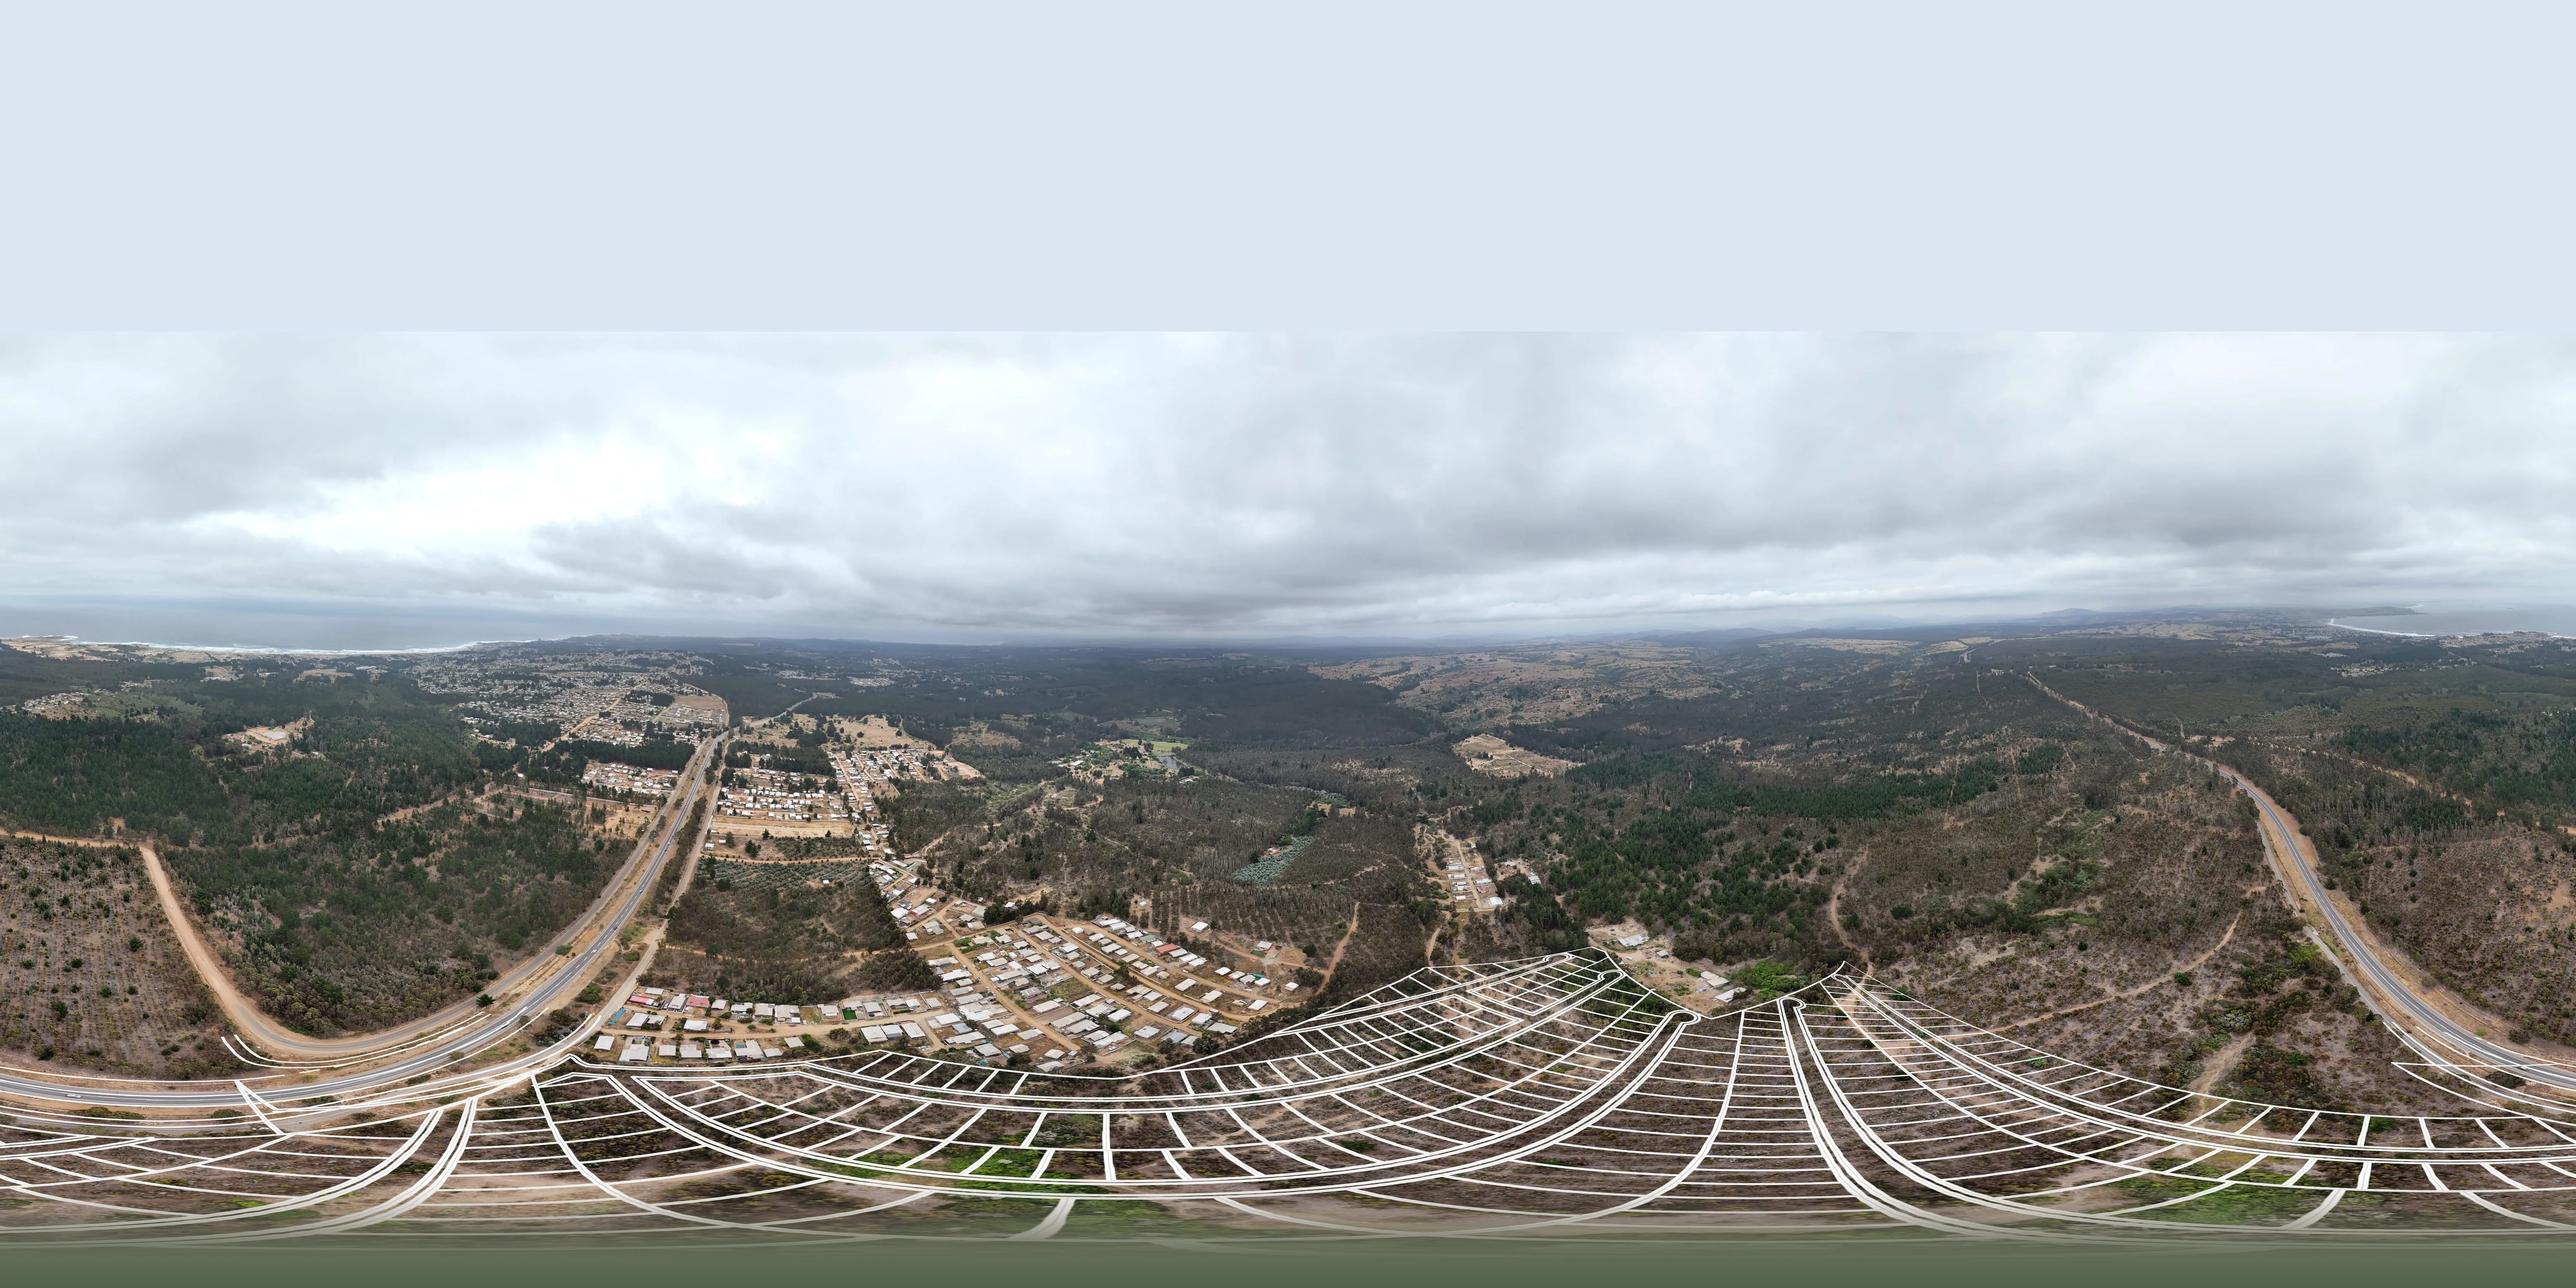
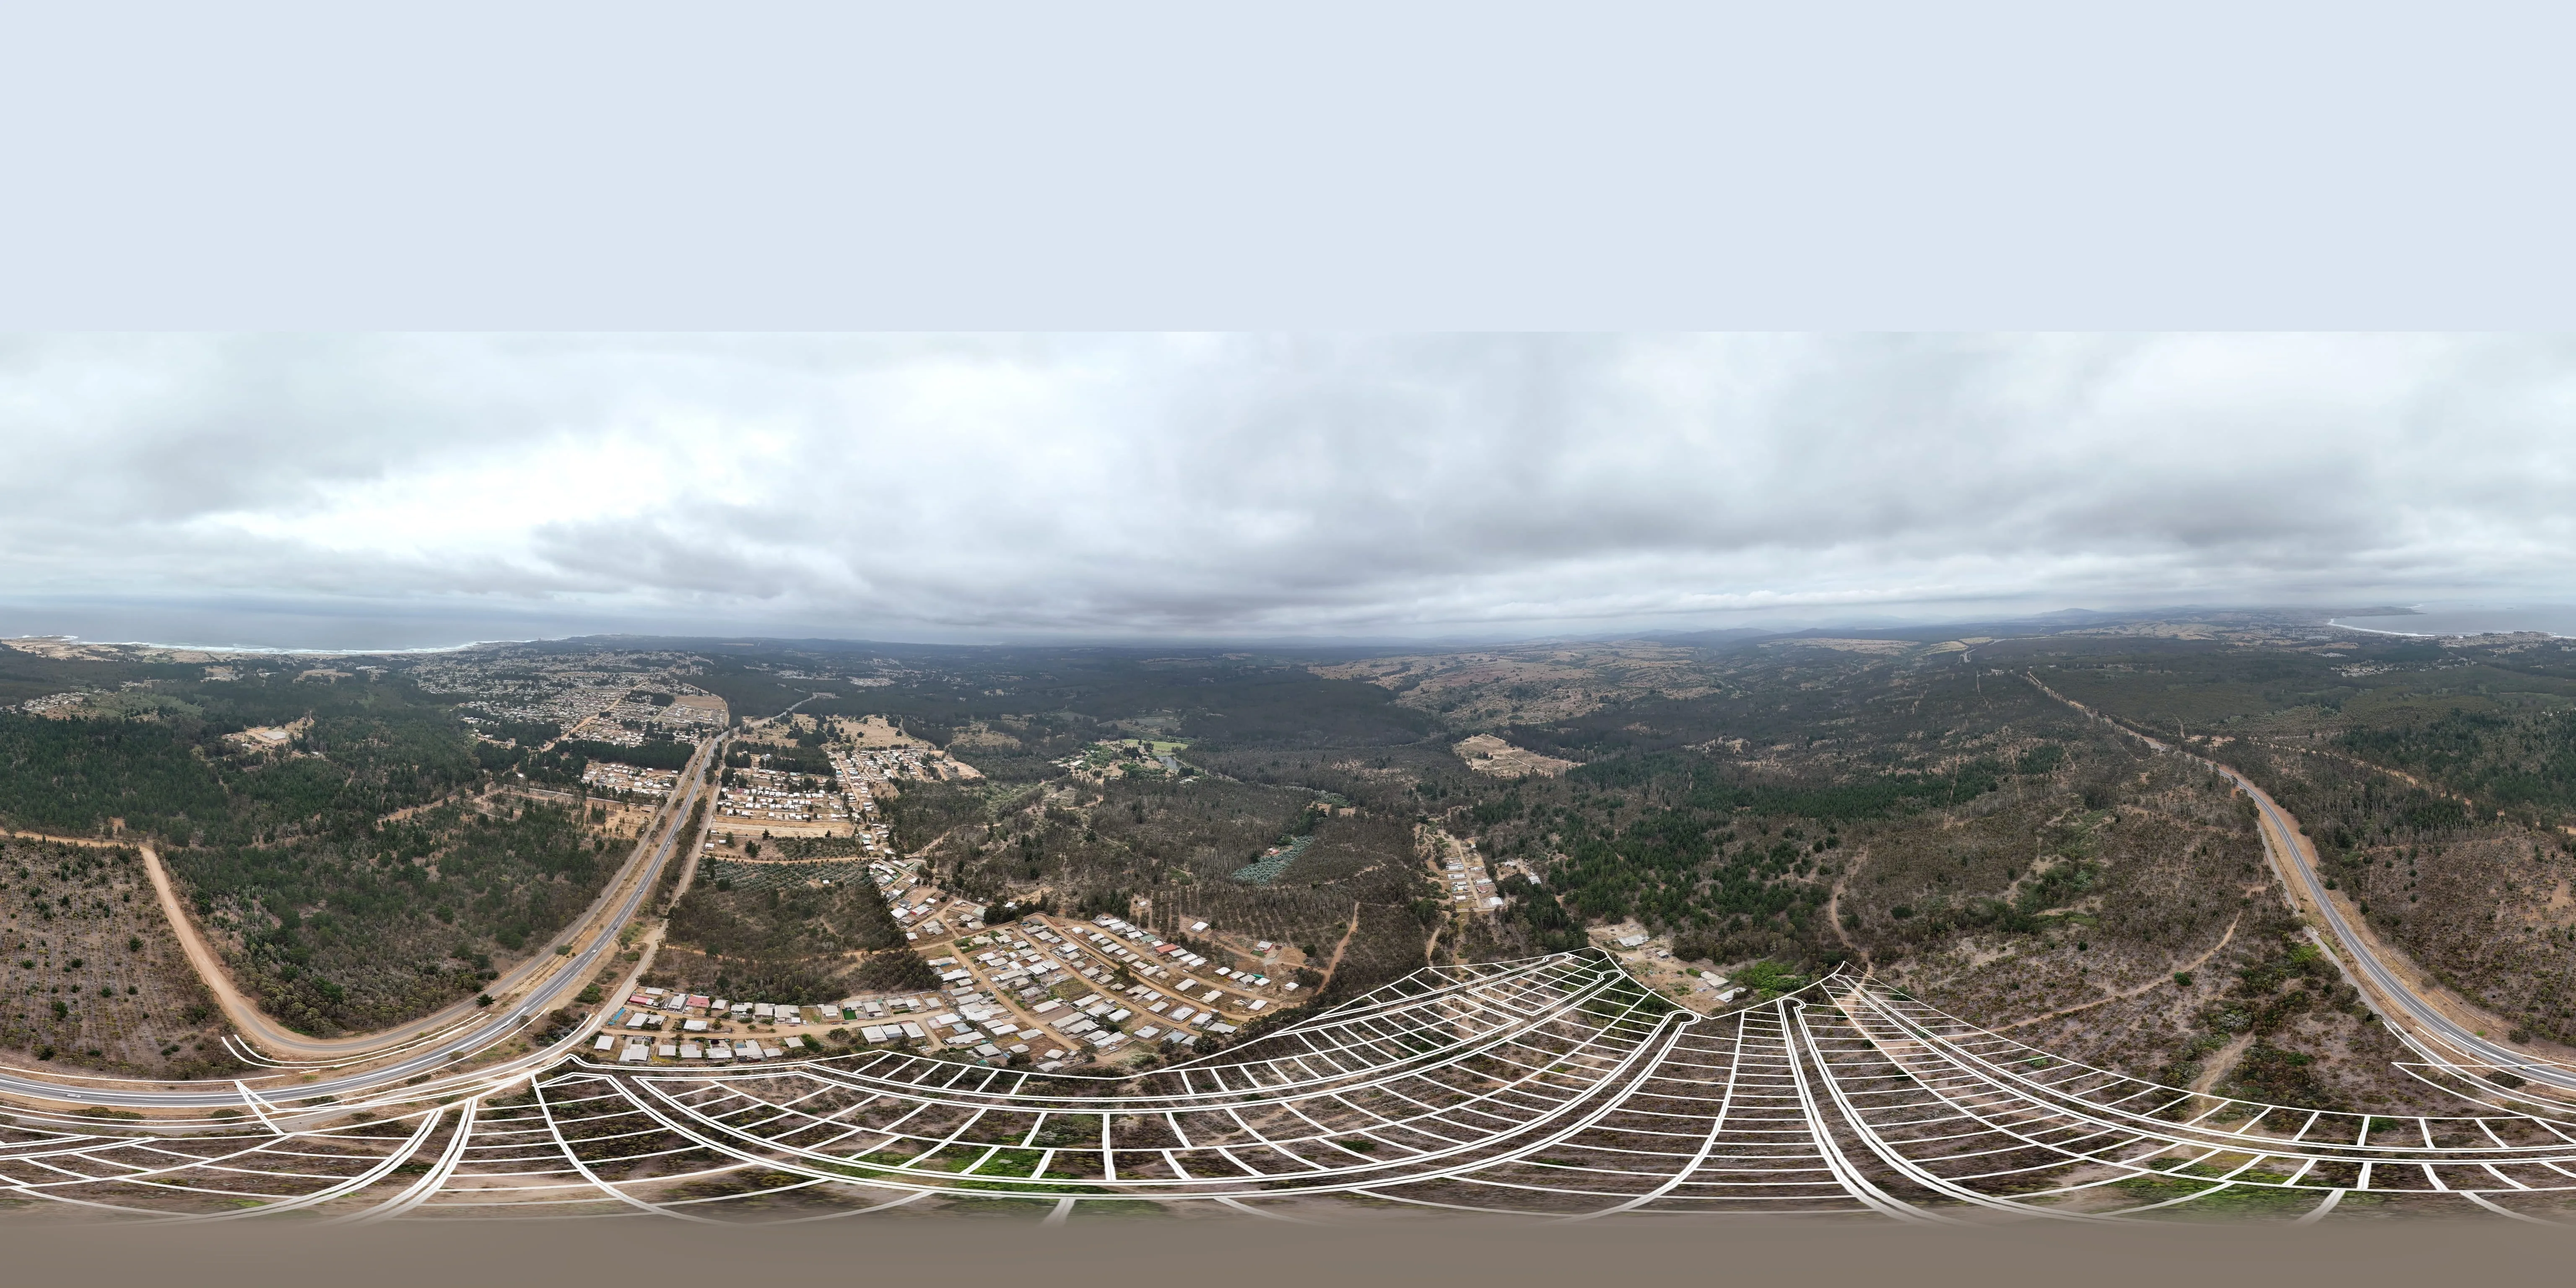
feat(mapa-3d): el plano se ve solo, sin los rectangulos de lotes encima
Los rellenos verdes y rojos, los deslindes propios y los numeros salen del
plano: la foto del dron ya trae los deslindes dibujados y el calco encima la
ensuciaba. Las mallas se quedan puestas —siguen siendo lo que se toca— pero
transparentes, y solo se pinta el lote que se apunta y el que se elige. En el
editor se ven todas: sin relleno no hay nada que arrastrar.

Se cae la leyenda de colores del aviso, que explicaba colores que ya no estan.

Del nadir: el ancho de la franja de relleno ahora sale de medir la foto. El
detalle horizontal por fila se mantiene entero hasta unos 15 grados sobre el
nadir, baja al 71 % a los 12 y se derrumba al 47 % bajo los 9, asi que la
franja arranca a los 15 y el relleno manda del todo a los 8. Antes estaba en
25 grados a ojo, o sea 10 grados de mapa tapado de mas.

Ademas _paint se llama al arrancar: sin eso el relleno se quedaba con la
opacidad que le pone _lots y los lotes seguian pintados igual.

Changed region(s): [[0.0, 0.9375, 1.0, 1.0]]

diff --git a/scripts/importar-plano-panoramica.js b/scripts/importar-plano-panoramica.js
@@ -118,63 +118,83 @@ async function main() {
        En una equirectangular todas las direcciones convergen en la fila de
        abajo, asi que al proyectarla cualquier dibujo con estructura se abre en
        rayos desde el punto bajo el dron. Probado: color liso deja una mancha,
-       espejar deja una roseta, estirar deja estrias y repetir un trozo de
-       vegetacion deja una estrella de 256 rayos. El problema no es el dibujo,
-       es la convergencia.
+       espejar una roseta, estirar estrias, repetir vegetacion una estrella de
+       256 rayos, y el promedio de cada fila un velo gris que igual se ve,
+       porque el promedio de toda la vuelta no es el color del suelo de ningun
+       lado en particular: sale verdoso donde el terreno es pardo.
 
-       Lo unico que no se deforma al converger es lo que ya es constante a lo
-       largo de la fila. Asi que la franja de abajo se reemplaza por el promedio
-       de cada fila, entrando de a poco: arriba de la franja manda la foto real
-       y hacia el nadir manda el promedio. Queda un degradado del color del
-       suelo, sin figura. Los deslindes de los lotes siguen viendose porque son
-       geometria 3D, no parte de la foto. */
-    const franja = Math.max(abajo + 24, Math.round(ALTO * 0.09))
+       Asi que el relleno se saca del color que tiene el suelo en cada rumbo:
+       se toma una banda de filas reales sobre la zona fea, se desenfoca a lo
+       ancho hasta que no queda ningun detalle —solo el color— y se usa como
+       relleno. Cada sector queda del tono que le toca y el parche se confunde
+       con lo de al lado. Justo en el nadir, donde todos los rumbos se juntan
+       en un punto, se cierra al promedio para que no salga un molinillo. */
+    /* El ancho sale de medir la foto, no de mirarla: el detalle horizontal por
+       fila se mantiene entero hasta unos 15 grados sobre el nadir, baja al 71 %
+       a los 12 y se derrumba al 47 % bajo los 9. Asi que la franja arranca a
+       los 15 grados y el relleno manda del todo a los 8: entre medio la foto
+       esta blanda pero es real, y se prefiere blanda a inventada.
+
+       Cada grado de mas es mapa tapado, y no poco: a los 260 m de vuelo que
+       tiene el calce, 15 grados ya son 70 m de radio. */
+    const franja = Math.max(abajo + 24, Math.round(ALTO * 0.0833))
     const cruda = await sharp(plana).raw().toBuffer({ resolveWithObject: true })
     const px = cruda.data, W = cruda.info.width, C = cruda.info.channels
     const arranque = ALTO - franja
-    const ultimaReal = arriba + mc.height - 1
 
-    /* Promedio de cada fila de la franja. Las filas del relleno no tienen foto,
-       asi que repiten la ultima que si la tiene. */
-    const medias = []
-    for (let y = arranque; y < ALTO; y++) {
-        const f = Math.min(y, ultimaReal)
+    /* Banda de referencia: filas reales por encima de la franja, lejos del
+       relleno y de las filas degradadas del final del stitch. */
+    const refA = arranque - Math.round(franja * 0.9)
+    const refB = arranque - Math.round(franja * 0.25)
+    const fila = new Float64Array(W * 3)
+    for (let x = 0; x < W; x++) {
         let r = 0, g = 0, b = 0
-        for (let x = 0; x < W; x++) {
-            const i = (f * W + x) * C
+        for (let y = refA; y < refB; y++) {
+            const i = (y * W + x) * C
             r += px[i]; g += px[i + 1]; b += px[i + 2]
         }
-        medias.push([r / W, g / W, b / W])
+        const n = refB - refA
+        fila[x * 3] = r / n; fila[x * 3 + 1] = g / n; fila[x * 3 + 2] = b / n
     }
 
-    /* Los promedios crudos saltan de fila en fila, y como cada fila es un
-       anillo alrededor del dron, esos saltos salen dibujados como una diana.
-       Se suavizan con una media movil ancha: el disco queda como un degradado
-       continuo del color del suelo, sin bordes que mirar. */
-    const RADIO = Math.round(franja * 0.35)
-    const suavizadas = medias.map((_, k) => {
-        let r = 0, g = 0, b = 0, n = 0
-        for (let j = k - RADIO; j <= k + RADIO; j++) {
-            const m = medias[Math.min(medias.length - 1, Math.max(0, j))]
-            r += m[0]; g += m[1]; b += m[2]; n++
+    /* Tres pasadas de media movil circular ≈ una gaussiana, y cada pasada es
+       O(W) con suma corrida. El radio es medio sector: borra el detalle y deja
+       el color. */
+    const radio = Math.round(W / 12)
+    let color = fila
+    for (let pasada = 0; pasada < 3; pasada++) {
+        const salida = new Float64Array(W * 3)
+        for (let c = 0; c < 3; c++) {
+            let suma = 0
+            for (let j = -radio; j <= radio; j++) suma += color[((((j % W) + W) % W) * 3) + c]
+            for (let x = 0; x < W; x++) {
+                salida[x * 3 + c] = suma / (2 * radio + 1)
+                suma += color[(((x + radio + 1) % W) * 3) + c] - color[(((((x - radio) % W) + W) % W) * 3) + c]
+            }
         }
-        return [r / n, g / n, b / n]
-    })
+        color = salida
+    }
+    let mr = 0, mg = 0, mb = 0
+    for (let x = 0; x < W; x++) { mr += color[x * 3]; mg += color[x * 3 + 1]; mb += color[x * 3 + 2] }
+    mr /= W; mg /= W; mb /= W
 
     const suave = t => { const u = Math.min(1, Math.max(0, t)); return u * u * (3 - 2 * u) }
     for (let y = arranque; y < ALTO; y++) {
-        const [pr, pg, pb] = suavizadas[y - arranque]
-        // Peso del promedio: 0 al entrar en la franja, 1 bastante antes del
-        // borde, para que las filas del relleno ya no tengan nada que aportar.
-        const w = suave((y - arranque) / (franja * 0.8))
+        // w: cuanto manda el relleno sobre la foto. w2: cuanto se cierra al
+        // promedio, para que el punto exacto del nadir sea de un solo color.
+        const w = suave((y - arranque) / (franja * 0.47))
+        const w2 = suave((y - arranque) / franja)
         for (let x = 0; x < W; x++) {
             const i = (y * W + x) * C
-            px[i] = px[i] * (1 - w) + pr * w
-            px[i + 1] = px[i + 1] * (1 - w) + pg * w
-            px[i + 2] = px[i + 2] * (1 - w) + pb * w
+            const fr = color[x * 3] * (1 - w2) + mr * w2
+            const fg = color[x * 3 + 1] * (1 - w2) + mg * w2
+            const fb = color[x * 3 + 2] * (1 - w2) + mb * w2
+            px[i] = px[i] * (1 - w) + fr * w
+            px[i + 1] = px[i + 1] * (1 - w) + fg * w
+            px[i + 2] = px[i + 2] * (1 - w) + fb * w
         }
     }
-    console.log(`Nadir: ${franja} px de franja promediada por fila (${(franja / ALTO * 180).toFixed(1)} grados sobre el nadir)`)
+    console.log(`Nadir: ${franja} px de franja (${(franja / ALTO * 180).toFixed(1)} grados sobre el nadir), color tomado de las filas ${refA}-${refB}`)
 
     const completa = await sharp(px, { raw: cruda.info }).png().toBuffer()
 

diff --git a/src/components/agenda3d/lote3d.js b/src/components/agenda3d/lote3d.js
@@ -132,6 +132,9 @@ class Lote3D extends HTMLElement {
 
     this._mountDrape();
     this._lots();
+    // _lots deja el relleno con la opacidad de arranque; _paint es quien sabe
+    // si esto es la pagina (invisible) o el editor (a la vista).
+    this._paint();
     this.setLayer(this._calibrado || this.getAttribute('editor') === '1' ? 'dron' : 'foto');
     this._pick();
 
@@ -695,7 +698,10 @@ class Lote3D extends HTMLElement {
     const cands = [];
     for (const L of this.labels) {
       const l = L.lot;
-      if (!this._inFilter(l) || l.stage === NOT_FOR_SALE) {
+      /* Los numeros son parte del mismo calco: fuera del editor solo se ve el
+         del lote apuntado y el del elegido. */
+      const vivo = this.editing || this._sel === l.id || this._hover === l.id
+      if (!vivo || !this._inFilter(l) || l.stage === NOT_FOR_SALE) {
         if (L.on) { L.el.style.visibility = 'hidden'; L.on = false; }
         continue;
       }
@@ -823,7 +829,7 @@ class Lote3D extends HTMLElement {
       this._ht = now;
       const h = hit(e);
       const id = h ? h.object.userData.lot.id : null;
-      if (id !== this._hover) { this._hover = id; this._paint(); }
+      if (id !== this._hover) { this._hover = id; this._paint(); this._dirty = true; }
       this.renderer.domElement.style.cursor = h ? 'pointer' : 'grab';
     });
     this.addEventListener('pointerup', e => {
@@ -859,15 +865,20 @@ class Lote3D extends HTMLElement {
         sel ? (l.sold ? SEL_SOLD : SEL)
           : hov && on ? HOV
             : l.sold ? SOLD : AV);
-      // Al dibujar hay que ver bien dónde quedó cada lote: en la página el
-      // relleno es apenas un velo para no tapar el terreno, pero en el editor
-      // eso vuelve imposible trabajar.
-      m.material.opacity = !on ? 0.02
-        : sel ? 0.75
-          : hov ? 0.5
-            : l.sold ? 0.42
-              : this.editing ? 0.42 : 0.28;
+      /* En la pagina el plano se mira limpio: los deslindes ya vienen
+         dibujados en la foto del dron y los rectangulos de colores encima lo
+         ensuciaban. Las mallas se quedan puestas —son lo que se toca— pero
+         transparentes, y solo se pinta el lote que se apunta y el que se
+         elige.
+
+         Al dibujar es al reves: sin relleno no hay nada que arrastrar, asi que
+         en el editor se ven todos. */
+      m.material.opacity = this.editing
+        ? (!on ? 0.02 : sel ? 0.75 : hov ? 0.5 : 0.42)
+        : (!on ? 0 : sel ? 0.6 : hov ? 0.32 : 0);
     }
+    // Los deslindes propios sobran fuera del editor: la foto ya los trae.
+    if (this.lines) this.lines.visible = !!this.editing;
   }
 
   _inFilter(l) {
@@ -904,7 +915,7 @@ class Lote3D extends HTMLElement {
     if (this._drape) this._drape.visible = k === 'dron';
     if (this.ortho) this.ortho.visible = k !== 'satelite';
     if (this.ground) this.ground.visible = true;
-    if (this.lines) this.lines.visible = true;
+    if (this.lines) this.lines.visible = !!this.editing;
     if (this._labelLayer) this._labelLayer.style.display = this._numbers === false ? 'none' : 'block';
   }
 

diff --git a/src/components/agenda3d/Agenda3D.tsx b/src/components/agenda3d/Agenda3D.tsx
@@ -574,10 +574,9 @@ export default function Agenda3D() {
                         <div className={styles.hint}>
                             <div className={styles.hintTexto}>
                                 <strong>Toca un lote en el mapa</strong>
-                                <span className={styles.legend}>
-                                    <span><i className={styles.dotFree} /> Disponible</span>
-                                    <span><i className={styles.dotSold} /> Vendido</span>
-                                </span>
+                                {/* Sin lotes pintados encima del plano, una leyenda de
+                                    colores explicaria colores que no se ven. */}
+                                <span className={styles.legend}>Se marca al pasar por encima</span>
                             </div>
                             <button className={styles.hintBtn} onClick={() => setStep('fecha')}>
                                 Agendar sin elegir lote

diff --git a/src/components/agenda3d/Agenda3D.module.css b/src/components/agenda3d/Agenda3D.module.css
@@ -373,30 +373,6 @@
     color: rgba(255, 255, 255, .68);
 }
 
-.legend span {
-    display: inline-flex;
-    align-items: center;
-    gap: 7px;
-}
-
-.dotFree,
-.dotSold {
-    width: 12px;
-    height: 12px;
-    border-radius: 4px;
-}
-
-/* Mismos colores que usa el mapa: verde disponible, rojo vendido. */
-.dotFree {
-    background: rgba(118, 216, 69, .55);
-    border: 1.5px solid #76d845;
-}
-
-.dotSold {
-    background: rgba(229, 72, 77, .55);
-    border: 1.5px solid #e5484d;
-}
-
 .specs {
     display: grid;
     grid-template-columns: 1fr 1fr;
